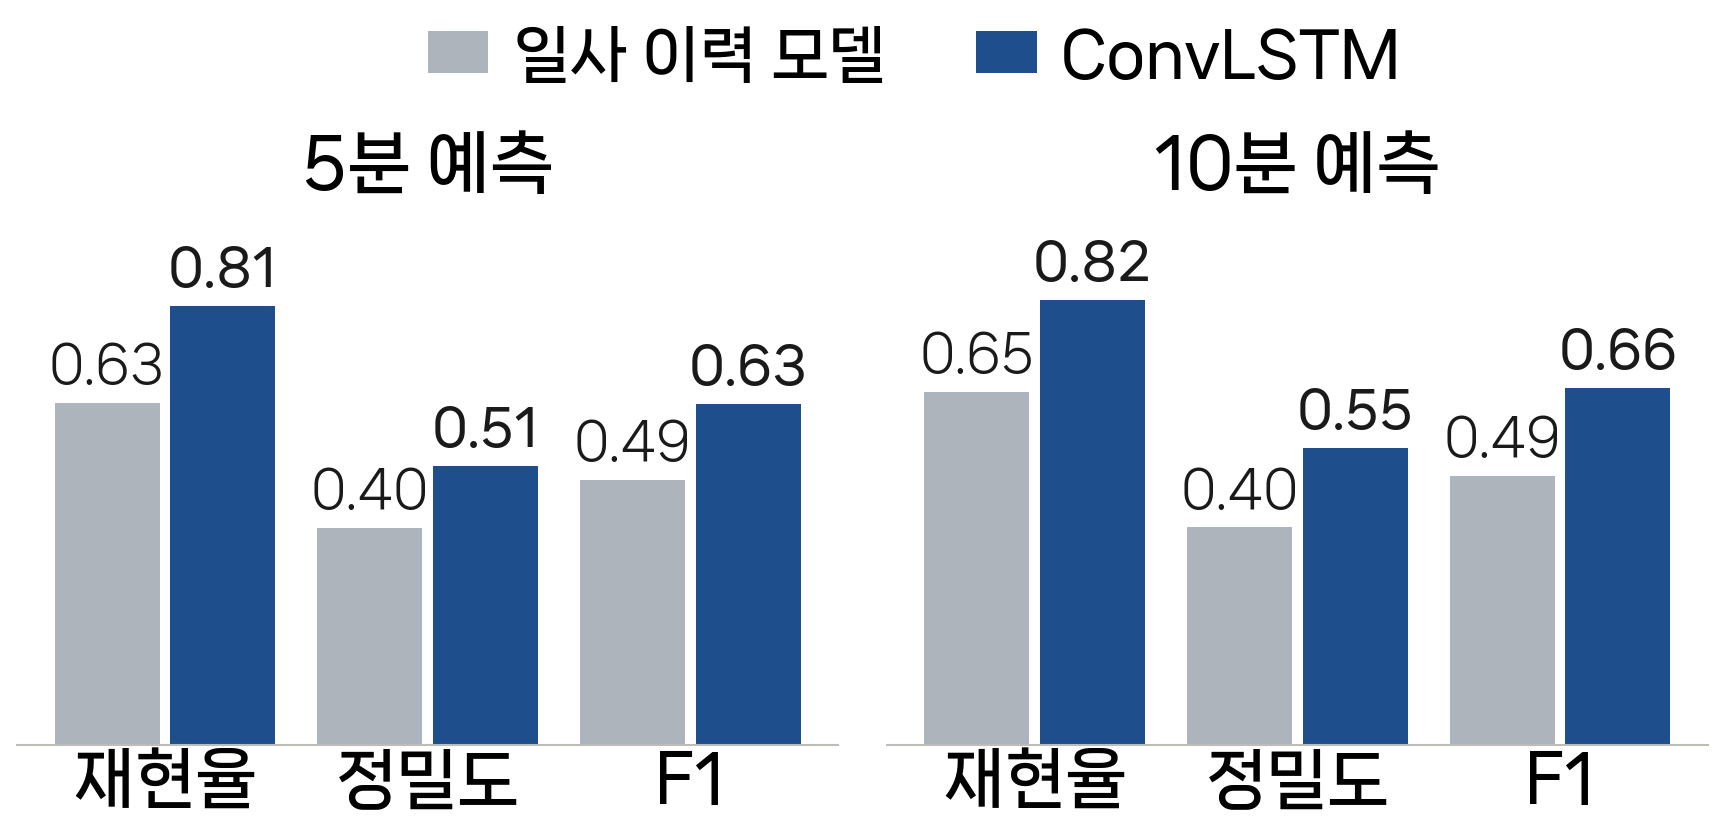
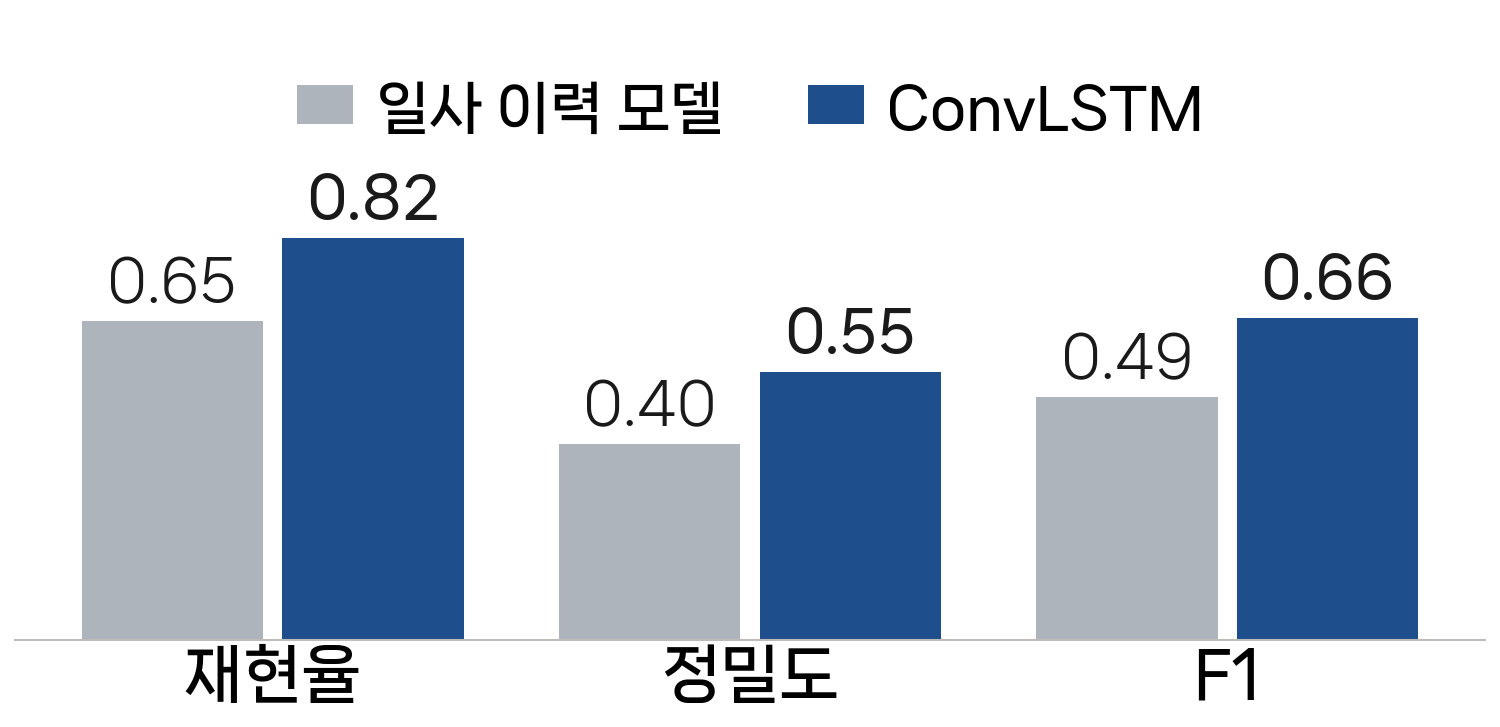
Unify to 10-min horizon: Fig. 7 and new Fig. 8

diff --git a/README.md b/README.md
@@ -17,8 +17,8 @@
 | [Fig. 4](figures/fig4_cloud_detection.png) | 원본 영상의 Green/Blue 색비와 색비 편차로 화소별 구름 확률을 구해 구름을 판별하는 과정 |
 | [Fig. 5](figures/fig5_case.png) | 일사 차단 사례(2015-12-19 13:50)의 전천영상, 실측 청천지수, 10분 전에 예측한 청천지수 0.6 미만 확률(예측 대상 시각에 맞춰 표시) |
 | [Fig. 6](figures/fig6_sky_states.png) | 맑음, 구름 이동, 흐림 상태의 예측 시점 전천영상 |
-| [Fig. 7](figures/fig7_performance.png) | 두 모델의 일사 감소 시작 예측 성능(재현율, 정밀도, F1) |
-| Fig. 8 | ConvLSTM 오탐 사례: [0.8 미만 감소, 3분 미만](figures/fig8_case_cloud_edge.png)(구름 가장자리의 태양 통과, 예측의 약 15%), [감소 없음](figures/fig8_case_thin_cloud.png)(얇은 구름의 태양 통과, 예측의 약 1/3) |
+| [Fig. 7](figures/fig7_performance.png) | 두 모델의 10분 전 일사 감소 시작 예측 성능(재현율, 정밀도, F1) |
+| [Fig. 8](figures/fig8_after10min.png) | 10분 전 감소 예측 여부별 실제 10분 뒤 청천지수. 예측했으나 맑음을 유지한 사례: [구름 가장자리](figures/fig8_case_cloud_edge.png), [얇은 구름](figures/fig8_case_thin_cloud.png) |
 
 ## 주요 결과 (12~2월)
 
